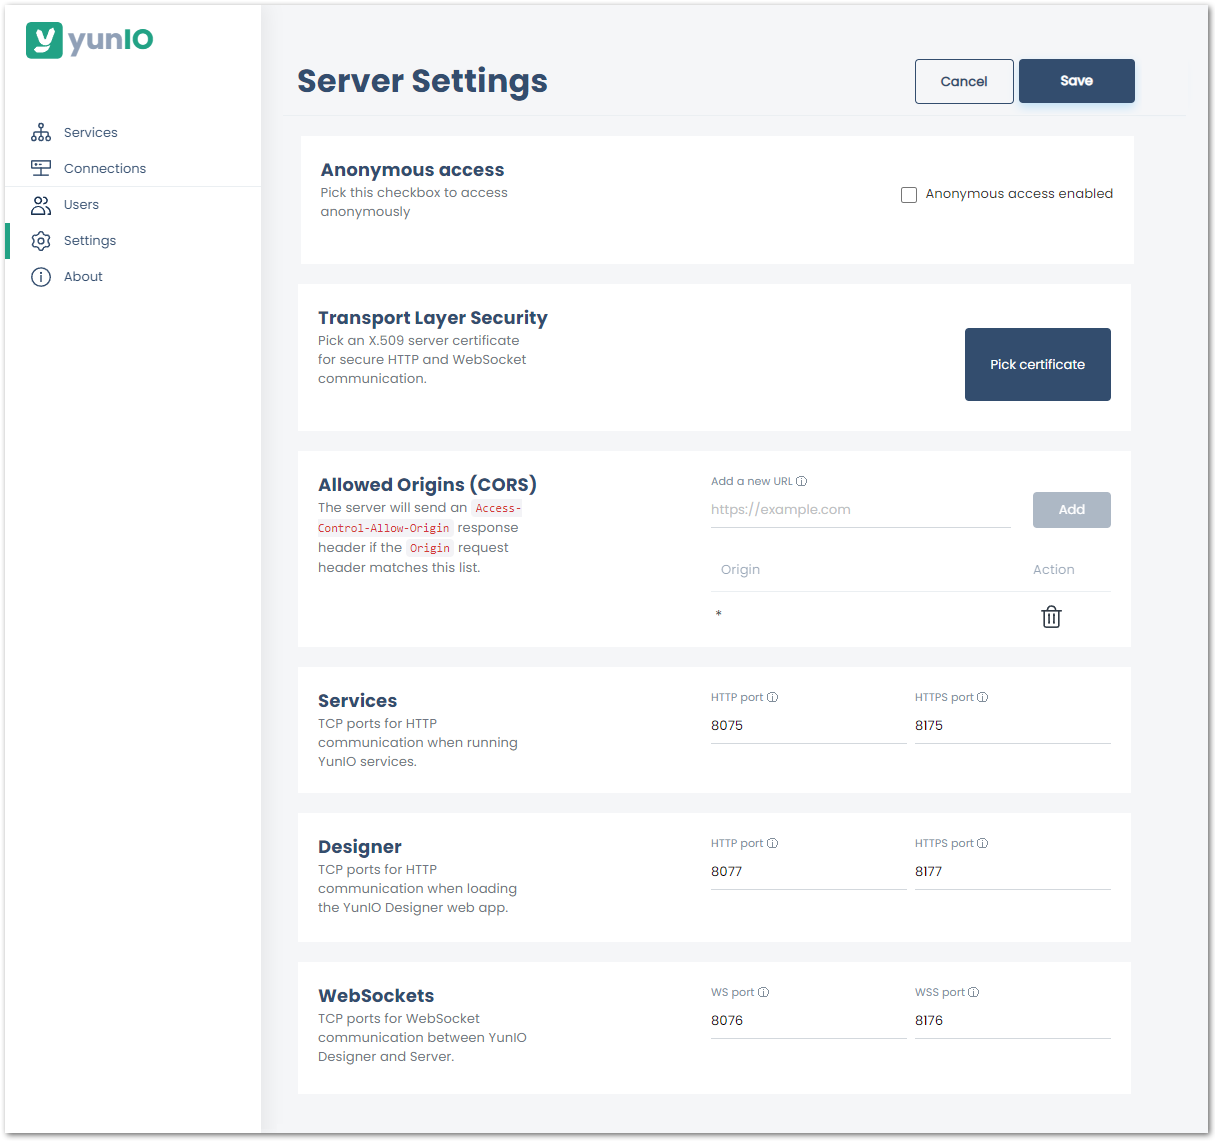
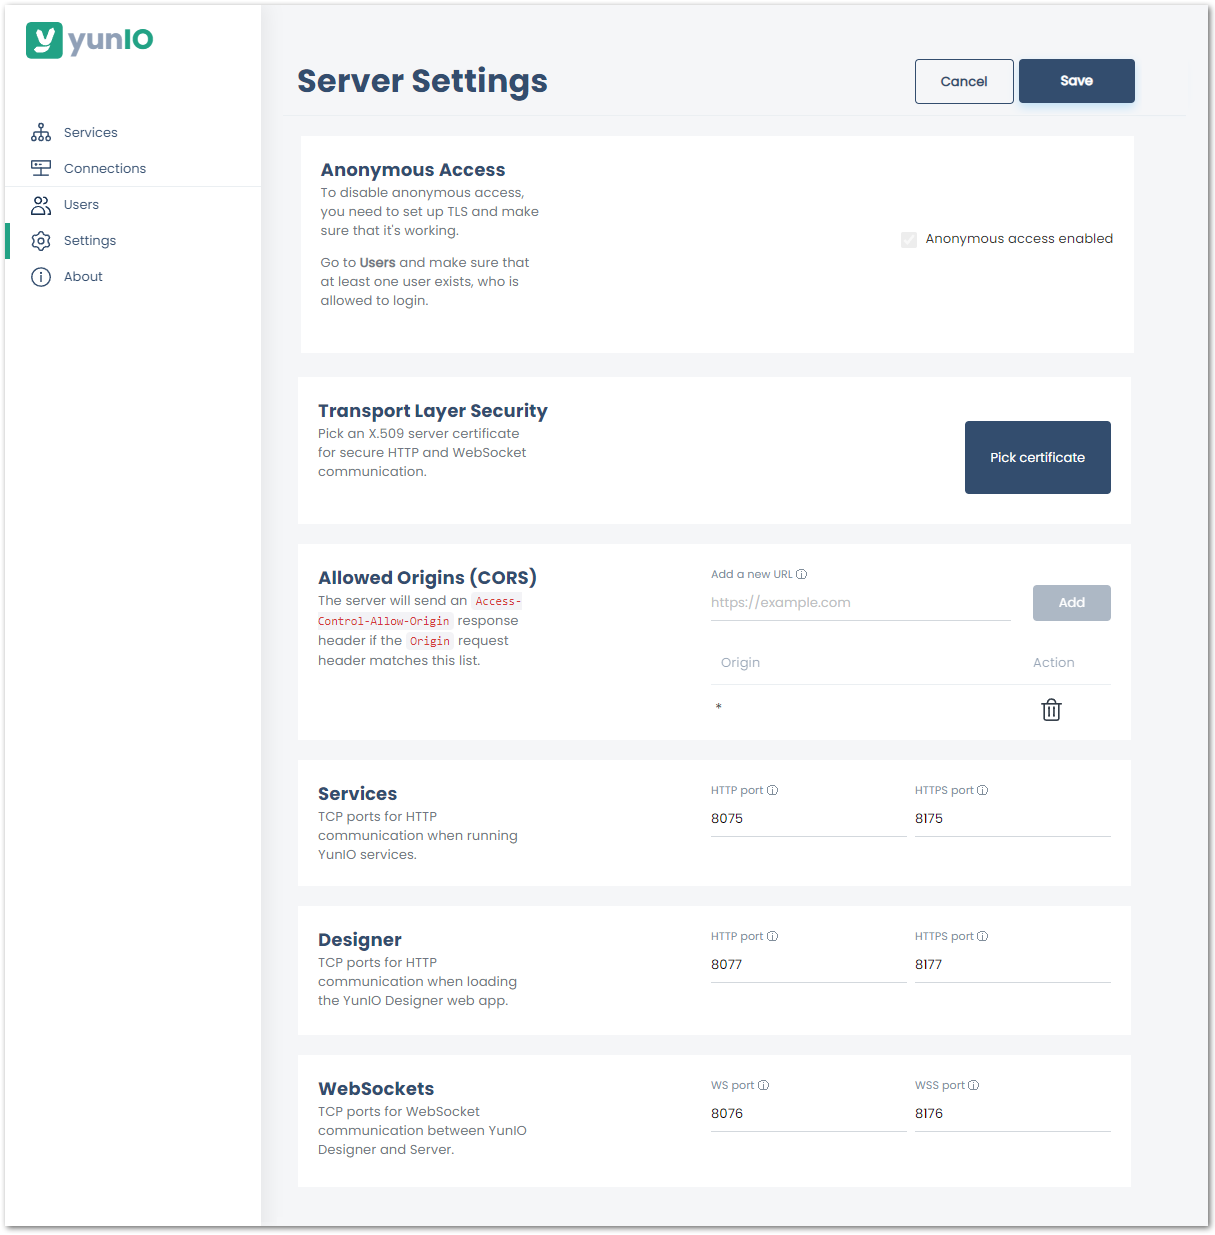
review

diff --git a/content/_de/yunio/benutzer.md b/content/_de/yunio/benutzer.md
@@ -12,9 +12,12 @@ lang: de_DE
 progressstate: 5
 ---
 
+Mit der yunIO Benutzerverwaltung können Sie Benutzer erstellen, um den Zugriff auf den yunIO Designer und die yunIO Services zu beschränken.
 
 ### Benutzer Anlegen
+
 Die Einstellungen für die Benutzerverwaltung befinden sich im yunIO Designer unter dem Abschnitt *Users*.
+
 1. Klicken Sie auf **[Add User]** (1), um einen neuen Benutzer anzulegen. <br>
 Um einen bereits vorhandenen Benutzer zu bearbeiten, klicken Sie auf *Edit* (![Edit](/img/content/yunio/edit.png) Icon) (2).<br>
 ![Users](/img/content/yunio/yunio-users.png){:class="img-responsive" }
@@ -43,7 +46,8 @@ Wenn Sie sich auf den Designer verbinden, werden Sie aufgefordert Zugangsdaten e
 ![Login](/img/content/yunio/yunio-login.png){:class="img-responsive" }
 
 {: .box-note }
-**Hinweis:** Wenn Sie sich aussperren und sich nicht mehr einloggen können, löschen Sie die Datei `permission.json`aus Ihrem Installationsverzeichnis, z.B. `C:\Program Files\Theobald Software\yunIO\config\servers\permission.json`.
+**Hinweis:** Wenn Sie sich aussperren und sich nicht mehr einloggen können, löschen Sie die Datei `permission.json` aus Ihrem Installationsverzeichnis, z.B. `C:\Program Files\Theobald Software\yunIO\config\servers\permission.json`.
+Starten Sie anschließend den Server neu.
 
 ### Benutzer für Basic Authentication verwenden
 
@@ -57,4 +61,5 @@ Folgen Sie diesen Schritten, um Basic Authentication für yunIO-Services einzuri
 5. Rufen Sie den Service unter Verwendung von Basic Authentication auf. Sie können die Zugangsdaten aller angelegten Benutzer verwenden.
 
 {: .box-tip }
-**Tipp:** Sie können auch SAP-Zugangsdaten für ein Basic Authentication verwenden, siehe [SAP-Verbindung: Authentifizierung](./sap-verbindungen-anlegen#authentifizierung).
+**Tipp:** Sie können auch SAP-Zugangsdaten für die Basic Authentication von Services verwenden, siehe [SAP-Verbindung: Authentifizierung](./sap-verbindungen-anlegen#authentifizierung).
+Die parallele Verwendung von SAP-Zugangsdaten und Zugangsdaten von angelegten Benutzern wird nicht unterstützt.

diff --git a/content/_en/yunio/users.md b/content/_en/yunio/users.md
@@ -12,9 +12,11 @@ lang: en_GB
 progressstate: 5
 ---
 
-The user management settings are located in the *Users* section of the yunIO Designer.
+With the user management you can create custom users with credentials to restrict access to the yunIO designer and to yunIO services.
 
 ### Creating Users
+
+The user management settings are located in the *Users* section of the yunIO Designer.
 
 1. Click **[Add User]** (1) to add a new user.
 To edit an existing user, click the edit icon (![Edit](/img/content/yunio/edit.png)) of the user (2).<br>
@@ -38,7 +40,8 @@ When connecting to the designer, you are now prompted to enter user credentials:
 ![Login](/img/content/yunio/yunio-login.png){:class="img-responsive" }
 
 {: .box-note }
-**Note:** If you get shut out and can't log in, delete the `permission.json` file in the installation directory of yunIO, e.g. `C:\Program Files\Theobald Software\yunIO\config\servers\permission.json`.
+**Note:** If you get shut out and can't log in, delete the `permission.json` file in the installation directory of yunIO e.g., `C:\Program Files\Theobald Software\yunIO\config\servers\permission.json`.
+Restart the yunIO server.
 
 ### Basic Authentication with Defined Users
 
@@ -53,3 +56,4 @@ Follow the steps below to set up basic authentication for yunIO services:
 
 {: .box-tip }
 **Tip:** You can also use SAP credentials for basic authentication, see [SAP Connection: Authentication](./sap-connection#authentication).
+Using SAP credentials and custom user credentials for basic authentication in parallel is not supported.

diff --git a/content/_en/yunio/server-settings.md b/content/_en/yunio/server-settings.md
@@ -22,7 +22,7 @@ To save any changes made in the **Settings** menu, click **[Save]**.
 ![Server-Settings](/img/content/yunio/Server-settings.png){:class="img-responsive" }
 
 ### Anonymous Access
-**Anonymous Access** is only available if users are defined, see [User Management](./users).<br>
+**Anonymous Access** is only available if users are defined, see [Transport Layer Security](./transport-layer-security).<br>
 If **Anonymous Access** is active, anyone can access the Designer. If this option is deactivated, only defined users have access.
 
 ### Transport Layer Security
@@ -44,7 +44,10 @@ Once a certificate is selected, the option **TLS enabled** is available.<br>
 Enable or disable the usage of transport encryption for the web server.
 
 {: .box-note }
-**Note:** To access the Designer via TLS, restart the yunIO server and connect to the Designer using the following URL pattern: <br>`https://[host]:[HTTPS port]`. 
+**Note:** To access the Designer via TLS, restart the yunIO server and connect to the Designer using the following URL pattern: `https://[host]:[HTTPS port]`. 
+If you cannot access the designer. because of problems with the TLS certificate, delete the `tls.json` file in the installation directory of yunIO e.g., `C:\Program Files\Theobald Software\yunIO\config\servers\tls.json`.
+Restart the yunIO server.
+
 
 ### Allowed Origins (CORS)
 

diff --git a/content/_de/yunio/server-settings.md b/content/_de/yunio/server-settings.md
@@ -22,7 +22,7 @@ Speichern Sie Änderungen der Einstellungen mit **[Save]**.
 ![Server-Settings](/img/content/yunio/Server-settings.png){:class="img-responsive" }
 
 ### Anonymous Access
-**Anonymous Access** ist nur verfügbar, wenn Benutzer angelegt wurden, siehe [Benutzerverwaltung](./benutzer). <br>
+**Anonymous Access** ist nur verfügbar, wenn TLS aktiv ist, siehe [Transport Layer Security](./transport-layer-security). <br>
 Wenn **Anonymous Access** aktiv ist, gibt es keine Zugangsbeschränkungen für den Designer.
 Wenn diese Option deaktiviert ist, gibt haben nur angelegte Benutzer Zugriff auf den Designer.
 
@@ -47,6 +47,8 @@ Wenn ein Zertifikat gewählt wurde, ist die Option **TLS enabled** verfügbar.<b
 
 {: .box-note }
 **Hinweis:** Um sich über TLS auf den Designer zu verbinden, starten Sie den yunIO-Server neu und verbinden Sie sich über folgendes URL-Pattern mit dem Designer: `https://[host]:[HTTPS port]`. 
+Wenn der Designer aufgrund von Problemen mit dem Zertifikat nicht mehr erreichbar ist, löschen Sie die `tls.json` aus Ihrem Installationsverzeichnis, z.B. `C:\Program Files\Theobald Software\yunIO\config\servers\tls.json`.
+Starten Sie anschließend den Server neu.
 
 ### Allowed Origins (CORS)
 
